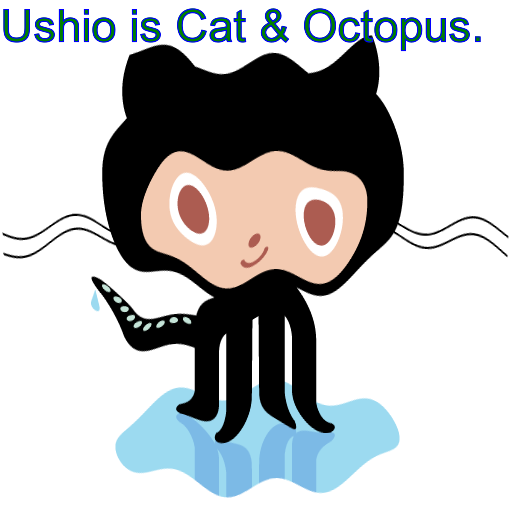
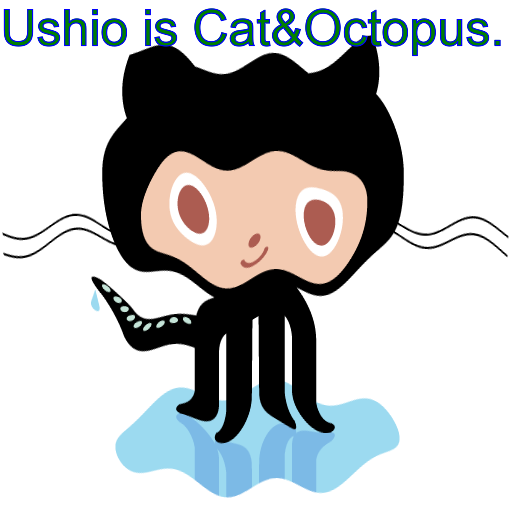
message change.

Changed region(s): [[0.0, 0.0, 1.0, 0.1203]]

diff --git a/rmagick.rb b/rmagick.rb
@@ -7,11 +7,11 @@ image2 = image.wave(amplitude=10.0, wavelength=100.0)
 
 md = Magick::Draw.new
 
-md.annotate(image2,0,0,0,0,"Ushio is Cat & Octopus.") do
+md.annotate(image2,0,0,0,0,"Ushio is Cat&Octopus.") do
 
 	md.gravity = Magick::NorthWestGravity
 
-	md.pointsize = 45
+	md.pointsize = 50
 	md.fill = "green"
 	md.stroke = "blue"
 end
